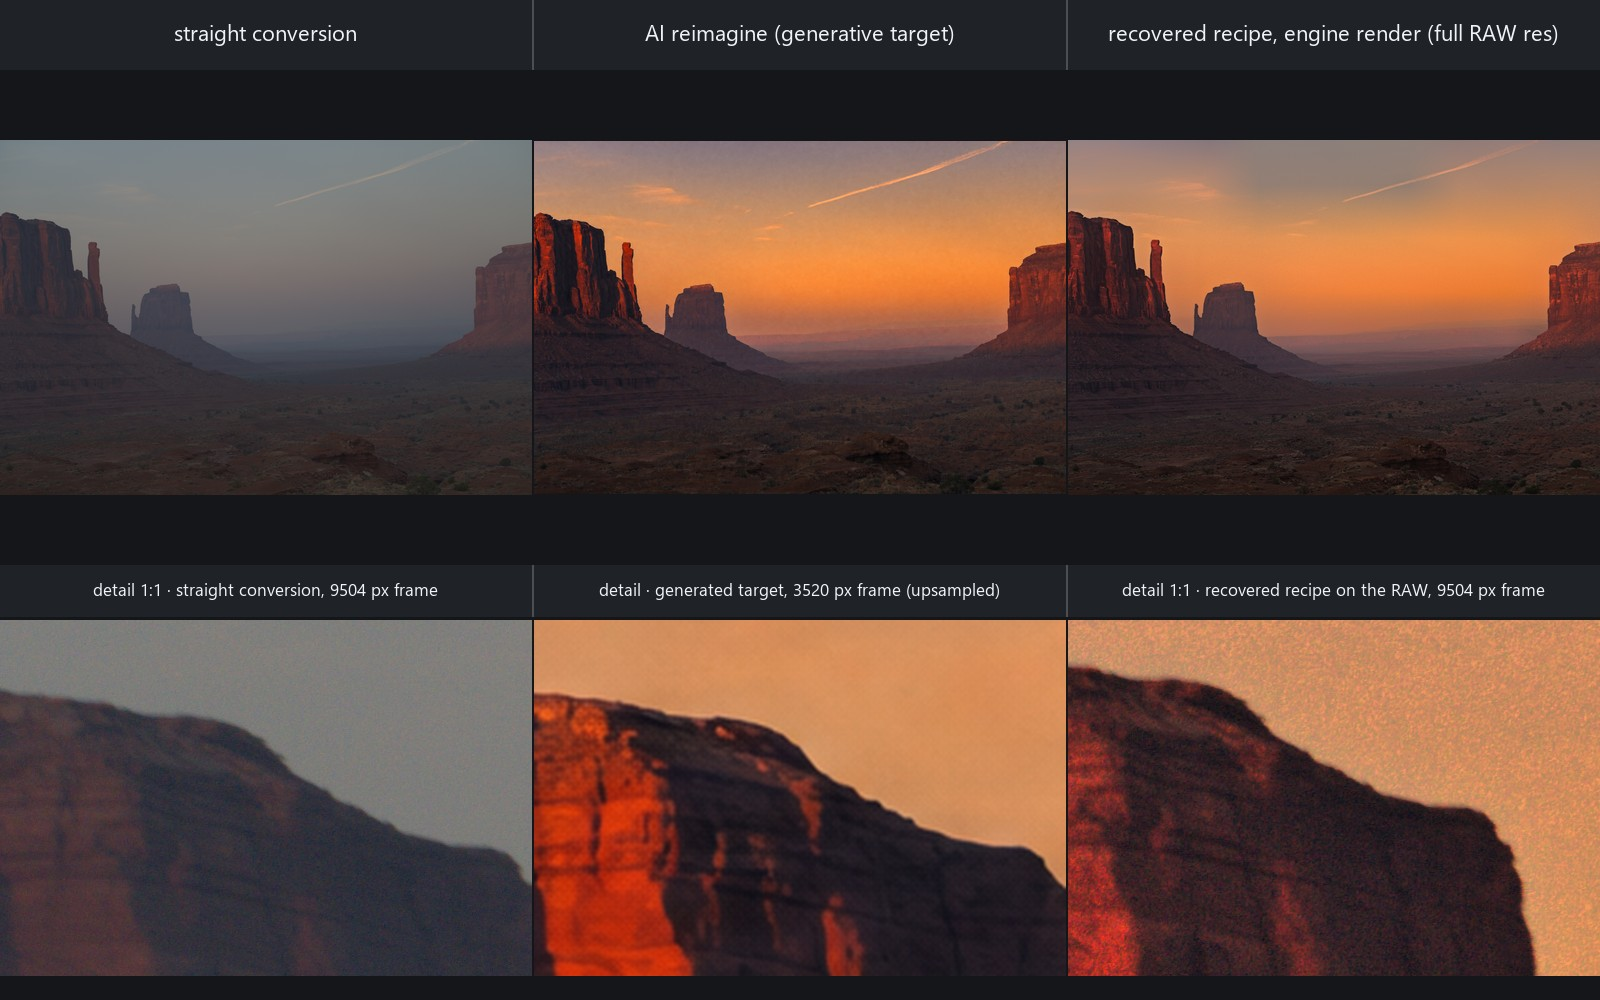
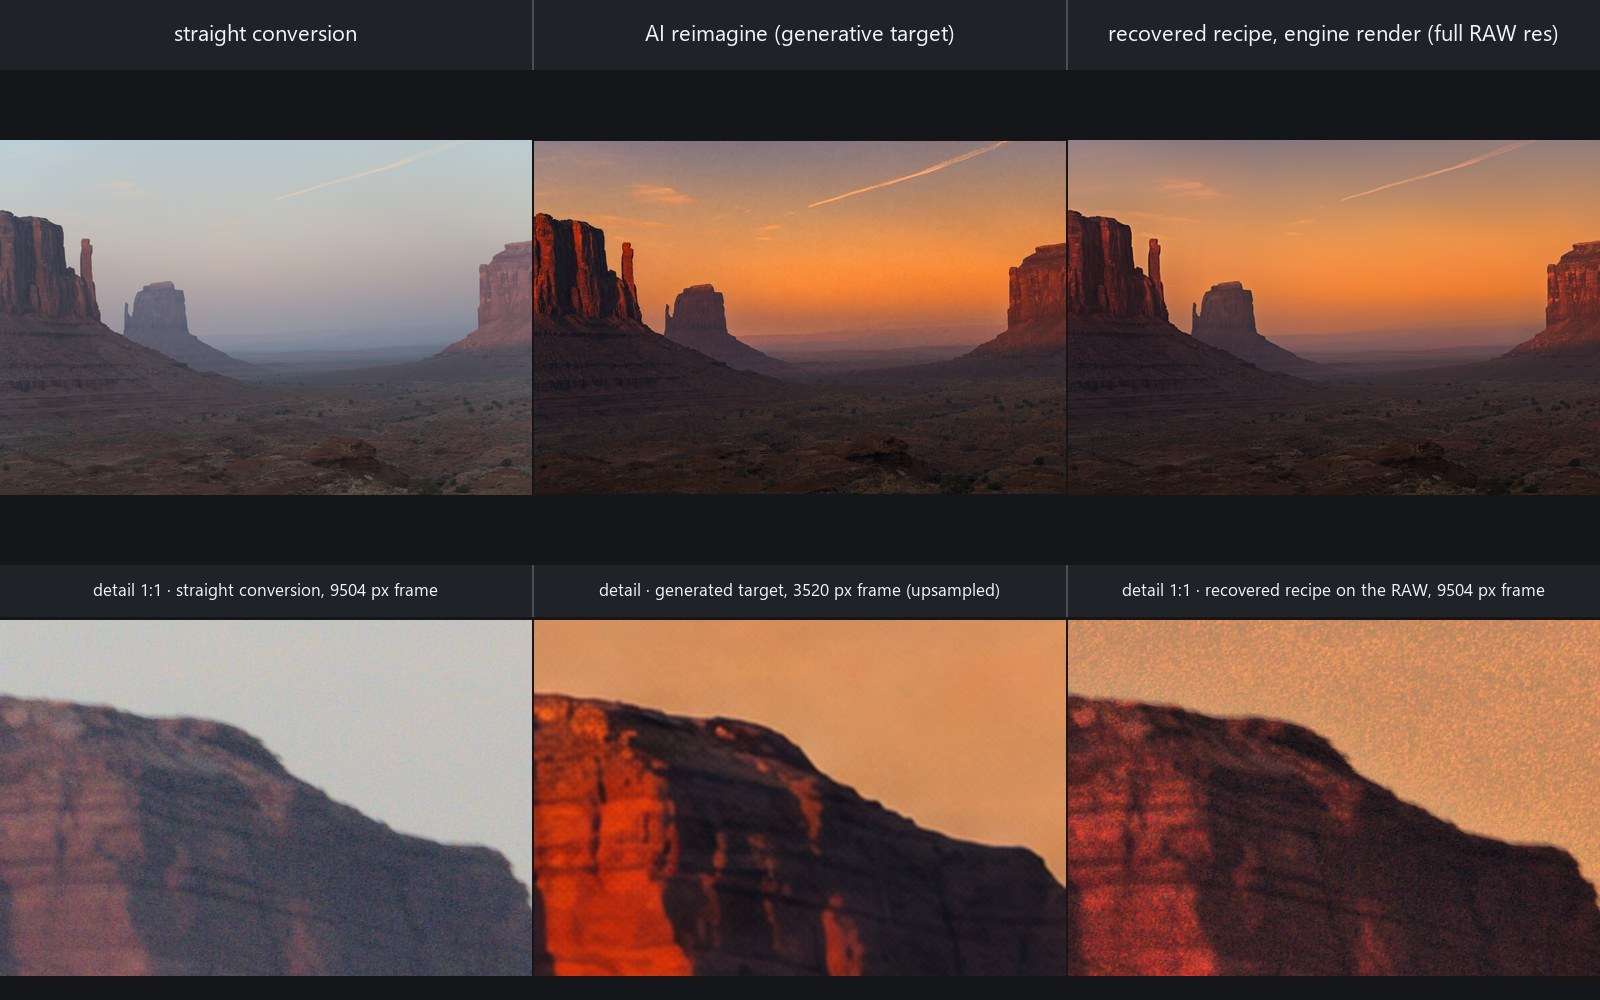
docs+site: the desert-canyon pair re-rendered on v1.6.1 and made the hero — the panel's left and right columns are the installed 1.6.1 CLI's full-resolution renders of the release gate's own 0.85 fit, the target column kept, the three 1:1 crops on one window; captions and the table row carry the v1.
The 2026-09-12 panel showed the v1.3.1 render of the reference pair, with
the grey-blue block at the top of the sky that v1.6.1 removed. The
re-render reuses the v1.6.1 release gate's fit at Reverse-fit strength 85 %
(the recipe and masks in the release lane's isolated store), rendered at
full resolution with the installed 1.6.1 command line on the gate's RAW
copy; the straight conversion is the default recipe plus this frame's own
base curve from that fit, so the two columns differ only by the fitted look.
The target column is the 2026-09-12 panel's: the 3520 × 2336 reimagine
purchase has since left the machine (the gate's fit reads a 1000 × 663 copy),
and the captions say so. The old panel's right-hand 1:1 crop sat 60 × 27 px
off the other two (found by matching each old crop against the new renders:
left and middle agree at (583–586, 1292–1293), right at (669, 1330)); the new
panel uses the middle crop's window for all three. The compose script and
the renders stay in the release lane (fig-canyon-161).

README: the §1 caption and the canyon table row carry the v1.6.1 fit
(D 0.278 / 0.658, sky zone 0.649; look error 0.129 → 0.048 at confidence
0.25 from the rationale, the same source the 2026-09-12 caption used; sky
ΔE 3.8 and whole-frame mean |diff| 0.0248 measured at 1000 px, the gate's
convention, with v1.6.0's 4.6 / 0.0260 beside them; WB 5653 → 8700 K,
−1.35 EV, saturation +36, two Select Sky bands, two land bands, two tiles,
[…]

diff --git a/site/index.html b/site/index.html
@@ -11,8 +11,8 @@
   <meta property="og:title" content="AutoShade · AI-assisted RAW development">
   <meta property="og:description" content="Describe the picture you want; get it back as an editable develop of your own RAW.">
   <meta property="og:url" content="https://autoshade.dev/">
-  <meta property="og:image" content="https://autoshade.dev/images/showcase-viaduct-reverse-fit.jpg">
-  <meta property="og:image:alt" content="Stone viaduct: the straight conversion, the picture an image model generated from it, and the recipe AutoShade recovered from that picture rendered on the RAW">
+  <meta property="og:image" content="https://autoshade.dev/images/showcase-canyon-reverse-fit.jpg">
+  <meta property="og:image:alt" content="Desert canyon at dusk: the straight conversion, the picture an image model generated from it, and the recipe AutoShade recovered from that picture rendered on the RAW">
   <meta name="theme-color" content="#f5f1e9" media="(prefers-color-scheme: light)">
   <meta name="theme-color" content="#101817" media="(prefers-color-scheme: dark)">
   <link rel="icon" type="image/png" href="favicon.png">
@@ -55,8 +55,8 @@
         <p class="hero-meta">Windows · macOS · Linux (CLI) · Open source under MIT</p>
       </div>
       <figure class="hero-figure">
-        <img src="images/showcase-viaduct-reverse-fit.jpg?v=1.6.1" width="1600" height="1000" alt="Stone viaduct: straight conversion, generated target, and the recovered recipe rendered on the RAW, with a 1:1 detail row">
-        <figcaption><strong>Ask for the picture, keep the RAW.</strong> One Sony α7R IVA 61 MP <code>.ARW</code>: the straight conversion, the picture <code>gpt-image-2</code> generated from it for <em>a clearer afternoon, a little more contrast, a slightly deeper blue sky, everything else unchanged</em>, and the recipe AutoShade recovered from that picture, rendered on the full RAW &mdash; look error <strong>0.161 → 0.023</strong>. The bottom row is one window at 1:1: the recipe carries the look, the sensor carries the detail, and the generated picture is a target, never the delivery. <a href="https://github.com/skymanbp/autoshade/blob/main/docs/SHOWCASE.md">Every number and prompt</a>.</figcaption>
+        <img src="images/showcase-canyon-reverse-fit.jpg?v=1.6.1-r2" width="1600" height="1000" alt="Desert canyon at dusk: straight conversion, generated target, and the recovered recipe rendered on the RAW, with a 1:1 detail row">
+        <figcaption><strong>Ask for the picture, keep the RAW.</strong> One Sony α7R IVA 61 MP <code>.ARW</code> at dusk: the straight conversion, the picture an image model generated from it &mdash; a full regeneration, the sky's texture re-synthesised and only its layout kept &mdash; and the recipe AutoShade recovered from that picture, rendered on the full RAW: sky ΔE <strong>3.8</strong> against the target, whole-frame mean |diff| <strong>0.0248</strong>, the recipe editable and exportable to Lightroom. The bottom row is one window at 1:1: the recipe carries the look, the sensor carries the detail, and the generated picture is a target, never the delivery. <a href="https://github.com/skymanbp/autoshade/blob/main/docs/SHOWCASE.md">Every number</a>.</figcaption>
       </figure>
     </section>
 
@@ -165,16 +165,16 @@ autoshade apply "photo.ARW" "recipe.json" -o "developed.tif"</code></pre>
     <section class="section showcase" id="showcase-a" aria-labelledby="showcase-a-title">
       <p class="section-kicker">Showcase · Part A</p>
       <h2 id="showcase-a-title">Reimagine → reverse-fit</h2>
-      <p class="section-lede">Targets can invent content; fitted renders cannot. Fit an editable recipe to the target's look, then apply it to the full RAW. The stone viaduct at the top of the page is the third pair.</p>
+      <p class="section-lede">Targets can invent content; fitted renders cannot. Fit an editable recipe to the target's look, then apply it to the full RAW. The desert canyon at the top of the page is the third pair.</p>
+
+      <figure class="wide-figure">
+        <img src="images/showcase-viaduct-reverse-fit.jpg?v=1.6.1" width="1600" height="1000" alt="Stone viaduct: straight conversion, generated target, and the recovered recipe rendered on the RAW, with a 1:1 detail row" loading="lazy">
+        <figcaption><strong><a href="https://github.com/skymanbp/autoshade/blob/main/docs/SHOWCASE.md">Stone viaduct.</a></strong> Top row: straight conversion, <code>gpt-image-2</code> target (<strong>D = 0.180</strong>, under the 0.35 threshold: full solve), recovered recipe on the RAW. Look error <strong>0.161 → 0.023</strong> at confidence 0.63, at Reverse-fit strength 100 %, not the 65 % default.</figcaption>
+      </figure>
 
       <figure class="wide-figure">
         <img src="images/showcase-cornwall-reverse-fit.jpg?v=1.6.1" width="1600" height="1000" alt="Cornwall lighthouse islet: straight conversion, generated target, and the recovered recipe rendered on the RAW, with a 1:1 detail row" loading="lazy">
         <figcaption><strong><a href="https://github.com/skymanbp/autoshade/blob/main/docs/SHOWCASE.md">Cornwall lighthouse islet: the same three stages.</a></strong> The body's 4:3 aspect makes its embedded preview a centred crop of the 3:2 sensor. Sized from the sensor frame the prompt bought a target at <strong>D = 0.136</strong>, against 0.304 from the preview. Look error <strong>0.137 → 0.027</strong> at confidence 0.66.</figcaption>
-      </figure>
-
-      <figure class="wide-figure">
-        <img src="images/showcase-canyon-reverse-fit.jpg?v=1.6.1" width="1600" height="1000" alt="Desert canyon at dusk: straight conversion, generated target, and the recovered recipe rendered on the RAW, with a 1:1 detail row" loading="lazy">
-        <figcaption><strong><a href="https://github.com/skymanbp/autoshade/blob/main/docs/SHOWCASE.md">Desert canyon at dusk: the reference pair v1.3.0 and v1.3.1 were measured on.</a></strong> A full regeneration, not a grade: the sky's texture is re-synthesised and only its layout survives, <strong>D = 0.275</strong> at pixel scale and 0.609 at layout scale. Fitted at Reverse-fit strength 85 %: look error <strong>0.110 → 0.048</strong>, sky ΔE <strong>18.2 → 4.9</strong>, whole-frame mean |diff| 0.0276 against the target, through a solved white balance, two Select Sky bands, four boundary-gated tiles and the colour field.</figcaption>
       </figure>
 
       <aside class="honesty" aria-label="Reverse-fit limitation">

diff --git a/README.md b/README.md
@@ -164,10 +164,10 @@ below are the whole path, and every number in their captions is measured.
 The source frame is one function for both entry points: a neutral develop of
 the RAW at a 2048 px working edge, never the camera's embedded JPEG preview.
 That matters because the two read differently — on the desert pair below, the
-embedded rendition measures D = 0.361 and buys the bounded atmosphere path,
-while the neutral develop of the same sensor frame measures D = 0.275 and
+embedded rendition measured D = 0.361 and bought the bounded atmosphere path,
+while the neutral develop of the same sensor frame reads D = 0.278 and
 earns the full solve. The pair is read at TWO scales and both are printed:
-D = 0.275 per pixel and 0.609 per layout on that frame, so a report says
+D = 0.278 per pixel and 0.658 per layout on that frame, so a report says
 whether the solve paired source pixel with target pixel or only their
 statistics. The coarse reading is a second scale, not a more forgiving one —
 measured, it reads HIGHER at frame, zone and cell scope, because the luma is
@@ -212,25 +212,27 @@ and prompts in [docs/SHOWCASE.md](docs/SHOWCASE.md).</sub>
 <img src="docs/images/showcase-canyon-reverse-fit.jpg" alt="Desert canyon at dusk: straight conversion, generated target, and the recovered recipe rendered on the RAW, with a 1:1 detail row" />
 
 <sub><b>Desert canyon at dusk.</b> The desert pair from the paragraph
-above — the reference pair v1.3.0 and v1.3.1 were measured on — and the
-hardest of the three: the target is a full regeneration, not a grade, so
-the sky's texture is re-synthesised and only its layout survives
-(<b>D = 0.275</b> at pixel scale, 0.609 at layout scale; the sky zone alone
-reads 0.617, past the 0.35 pairing line). Top row: the straight
-conversion, the 3520×2336 <code>reimagine</code> target, and the recovered
-recipe rendered on the 9504×6336 RAW, fitted at Reverse-fit strength 85 %: look
-error <b>0.110 → 0.048</b>, whole-frame mean |diff| against the target
-<b>0.0276</b> (v1.2.6 shipped 0.0571), sky ΔE <b>18.2 → 4.9</b> — a solved
-white balance (5653 K as shot → 8400 K), −1.3 EV under a six-knot residual
-curve, global saturation +35 with clarity and texture +20, the mixer on Red
-and Orange (+33/+33), two Select Sky bands vouched by the region's own
-cells where its re-synthesised pixels have no partner, four boundary-gated
-bitmap tiles, and the 12×8×8 colour field that renders in-app and rides in
-the sidecar's payload. Confidence 0.25, read from the accepted zone's
-residual, not from the frame. Bottom row: the same window at each source's
-native resolution. What the fit does not reach is disclosed rather than
-measured away: the land stays at ΔE 6.9, and the warm haze on the far mesas
-is the known gap. Full numbers in [docs/SHOWCASE.md](docs/SHOWCASE.md).</sub>
+above — the reference pair every release is gated on — and the hardest of
+the three: the target is a full regeneration, not a grade, so the sky's
+texture is re-synthesised and only its layout survives (<b>D = 0.278</b>
+at pixel scale, 0.658 at layout scale; the sky zone alone reads 0.649,
+past the 0.35 pairing line). Top row: the straight conversion, the
+3520×2336 <code>reimagine</code> target, and the recipe the v1.6.1 release
+gate itself recovered at Reverse-fit strength 85 %, rendered on the
+9504×6336 RAW: look error <b>0.129 → 0.048</b>, and against the target,
+measured at 1000 px, sky ΔE <b>3.8</b> (v1.6.0: 4.6) and whole-frame mean
+|diff| <b>0.0248</b> (v1.6.0: 0.0260) — a solved white balance (5653 K as
+shot → 8700 K), −1.35 EV under a six-knot residual curve, saturation +36
+with clarity and texture +20, the mixer on Red and Orange (+33/+33), two
+Select Sky bands vouched by the region's own cells where its re-synthesised
+pixels have no partner, two land bands, two boundary-gated bitmap tiles,
+one field mask, and the 12×8×8 colour field whose eight unreadable
+cells at the top of the sky are now read on the region pairing. Confidence
+0.25, read from the accepted zone's residual, not from the frame. Bottom
+row: the same window at each source's native resolution. What the fit does
+not reach is disclosed rather than measured away: the land stays at ΔE 6.0,
+and the warm haze on the far mesas is the known gap. Full numbers in
+[docs/SHOWCASE.md](docs/SHOWCASE.md).</sub>
 
 `match` recovers an editable recipe from any finished rendition of the same
 frame ([`src/fit.rs`](src/fit.rs)). A generated target is not pixel-aligned
@@ -670,7 +672,7 @@ the tests [`scripts/check_docs.py`](scripts/check_docs.py) re-derives.
 | Camera base look, v1.6.0 estimator (star frame, 8-bit levels) | develop against the camera's rendition 0.75 rms (median +0.19), 4.24 (+2.56) before; 4 knots instead of 13; finished-develop readings 0.3075 → 0.2922 and 0.0387 → 0.0139 | [What is new §12](#12-the-cameras-own-look-is-read-from-the-picture-like-with-like) |
 | Reverse-fit, stone viaduct (full solve, Reverse-fit strength 100 %) | look error 0.161 → 0.023 at confidence 0.63 (a global solve with the cast curves projected to t = 0.485, the per-band mixer on Orange/Yellow/Aqua/Blue at the 45 ceiling, two semantic zones, two boundary-gated tiles and one field mask), D = 0.180; at the default 65 % the pair fits to 0.047 at confidence 0.25 with the mixer capped at 18, four tiles and two field masks, and v1.2.2's fit of it is where the seam fix was measured: sky tile 0.0278 → 0.0042 (k 0.121), delivered +3.15 → +0.92 codes | [What is new §1](#1-whole-image-ai-generation-then-reverse-fit-an-editable-recipe-from-any-finished-look) |
 | Reverse-fit, Cornwall islet (full solve, composed calibration) | look error 0.137 → 0.027 at confidence 0.66, D = 0.136 sized from the sensor frame (0.304 from the cropped preview); the global cast projected to t = 0.363, delivered sky hue spread 9.6° (v1.2.2 shipped 33.1°) | [docs/SHOWCASE.md](docs/SHOWCASE.md) |
-| Reverse-fit, desert canyon at dusk (full solve, Reverse-fit strength 85 %; the v1.3.0/v1.3.1 reference pair) | look error 0.110 → 0.048 at confidence 0.25, D = 0.275 at pixel scale and 0.609 at layout scale (sky zone 0.617); on the 2048 px acceptance render, whole-frame mean \|diff\| against the target 0.0276 (v1.2.6: 0.0571), sky ΔE 18.2 → 4.9, land 7.0 → 6.9; a solved white balance, two Select Sky bands, four boundary-gated tiles and the 12×8×8 colour field; `match --zoned` 5 min 29 s | [docs/SHOWCASE.md](docs/SHOWCASE.md) |
+| Reverse-fit, desert canyon at dusk (full solve, Reverse-fit strength 85 %; the reference pair every release is gated on, the v1.6.1 gate's own fit) | look error 0.129 → 0.048 at confidence 0.25, D = 0.278 at pixel scale and 0.658 at layout scale (sky zone 0.649); against the target, measured at 1000 px: sky ΔE 3.8 (v1.6.0: 4.6), whole-frame mean \|diff\| 0.0248 (v1.6.0: 0.0260), land ΔE 6.0; a solved white balance, two Select Sky bands, two land bands, two boundary-gated tiles, one field mask and the 12×8×8 colour field (8 of its cells read on the region pairing) | [docs/SHOWCASE.md](docs/SHOWCASE.md) |
 | Local-field ceiling, calibration pair | global fit 0.0961 against a ceiling of 0.0700; the accepted sky zone realizes 0.134 of the distance | [What is new §6](#6-a-bilateral-grid-local-field-prices-every-local-producer-first) |
 | AI develop, model judge | 2026-09-02 four-looks batch on the full 169 + 94 index at `--style 1.0 --strength 0.9`, the direction leading: moody 68 → 70 → 78 (both adopted) → 69 (discarded), verdict Accept; golden 87 → 84 (discarded) after the verifier twice sent the proposal back for the grain it never set, verdict Revise — unsaved, the figure renders the proposal; vivid 70 → 84 (adopted) → 82 (discarded), verdict Accept. The finished-look-only run (2026-09-01) and v1.2.2's full-index run are on the showcase page | [AI advisor](#ai-advisor-and-reverse-fit) |
 | Style retrieval weights | corpus harness (169 described exemplars, 156 queries): `W_EMB=4`, `W_TXT=0.5`, `W_DESC=0.5`, standardised variant with the text-hubness correction — MAE 0.688864 vs baseline 0.713143, +0.024280, CI [+0.005837, +0.041111] under the prose proxy; the corrected point at the old `W_TXT=4` regresses with CI [−0.069654, −0.005140], which is why the weight moved; under the tag-string proxy nothing beats the text-free row; `W_LOOK=1.0` is unmeasured (the harness cannot see the look library) and its scale is a real ratio against the direction terms — it ships inside a stable band, order unchanged to 2x and first moving at 4x | [AI advisor](#ai-advisor-and-reverse-fit) |

diff --git a/docs/SHOWCASE.md b/docs/SHOWCASE.md
@@ -7,8 +7,10 @@ four-looks panel and the Cornwall panel were rendered on 2026-09-02 on the
 v1.2.3 build; the
 stone-viaduct panel's right column was re-rendered on 2026-09-03 on the v1.2.4
 build at Reverse-fit strength 100 %, its other two columns being the v1.2.2
-composition's frames re-encoded once; the desert-canyon panel was rendered
-on 2026-09-12 on the v1.3.1 build; every frame not marked
+composition's frames re-encoded once; the desert-canyon panel was
+re-rendered on 2026-09-25 on the v1.6.1 build from the release gate's own
+fit, keeping the 2026-09-12 panel's middle column (the target, unchanged);
+every frame not marked
 *generated* is rendered by AutoShade's engine from a recipe, and every
 "straight conversion" is AutoShade's own neutral develop of the RAW, not the
 camera JPEG. Model-judge scores are automated review, not human aesthetic
@@ -99,41 +101,55 @@ delivered sky spread of 9.6° against the target's 1.6° and v1.2.2's
 
 <img src="images/showcase-canyon-reverse-fit.jpg" alt="Desert canyon at dusk: straight conversion, generated target, and the recovered recipe rendered on the RAW, with a 1:1 detail row" />
 
-<sub><b>Desert canyon at dusk.</b> The reference pair v1.3.0 and v1.3.1
-were measured on, rendered on 2026-09-12 on the v1.3.1 build. The target
-is a 3520 × 2336 <code>reimagine</code> purchase made from the desktop app
-on 2026-09-10; the app records such a purchase as its origin file only,
-not the Direction text or the model, so unlike the two panels above this
-caption cannot quote the prompt. It is a full regeneration rather than a
-grade: the sky's texture is re-synthesised and only its layout survives,
-which is why this pair reads <b>D = 0.275</b> at pixel scale and 0.609 at
-layout scale (the sky zone 0.617, the land 0.273) — under the 0.35 line at
-frame scope, so the full solve ran, with the sky's pixels admitted on the
-region's own 12 × 8 cell means where no pixel has a partner. The right
-column is the v1.3.1 fit at Reverse-fit strength 85 % (`match --zoned`,
-5 min 29 s; the product default is 65 %, where the colour field is inert by
-design and the sky stays 27 ΔE from the target). Look error <b>0.110 →
-0.048</b>: a solved white balance (5653 K as shot → 8400 K, tint +33),
-exposure −1.3 EV with contrast +3.1 and blacks −3.4 under a six-knot
-residual tone curve, global saturation +35, clarity and texture +20 within
-the ±20 budget, the per-band mixer on Red and Orange (saturation +33,
-luminance +33; Aqua and Blue one-sided, left neutral), no cast curves (they
-would have re-hued a region), two Select Sky bands (band 1/2 at +0.14 EV,
-saturation +6; band 2/2 at +0.19 EV, contrast +0.5, shadows −0.9,
-saturation +3; accepted after 15 trials, analysis-scale ΔE 30.1 → 27.1),
-four boundary-gated bitmap tiles (r2c2, r2c0, r1c0, r3c3; cross-boundary
-steps 0.0023–0.0074 after shrink, each context-charged within the 0.012
-ceiling), no field mask (both candidates refused by the zone gate), and the
-12 × 8 × 8 colour field (frame residual 0.0439 → 0.0171, 85 of 88 measured
-cells on the support-free solve). Confidence 0.25, read from the accepted
-zone's residual (0.436), not the frame's 0.047. On the 2048 px acceptance
-render: whole-frame mean |diff| against the target <b>0.0276</b> (v1.2.6
-shipped 0.0571 from the command line and 0.0949 from the saved desktop
-fit), sky ΔE <b>18.2 → 4.9</b> with |dL| 0.6 and L\*std 1.03 of the
-target's, land ΔE 7.0 → 6.9. The far mesas keep a warm haze on the land
-side that the render reads cooler (a\* 24.5 against 18): a haze-colour gap
-along a real edge, inside the land's ΔE, disclosed as the known gap rather
-than measured away. The full three-strength table is in
+<sub><b>Desert canyon at dusk.</b> The reference pair every release has
+been gated on since v1.3.0, re-rendered on 2026-09-25 on the v1.6.1 build:
+the left and right columns are the installed 1.6.1 command line's own
+renders, the recipe being the one the v1.6.1 release gate fitted at
+Reverse-fit strength 85 % (the product default is 65 %). The target is a
+3520 × 2336 <code>reimagine</code> purchase made from the desktop app on
+2026-09-10; the app records such a purchase as its origin file only, not
+the Direction text or the model, so unlike the two panels above this
+caption cannot quote the prompt. The full-size file has since left the
+machine, so the gate's fit reads a 1000 × 663 copy of it, and the panel's
+middle column is the 2026-09-12 panel's, made from the full file; the
+2026-09-12 panel's right-hand detail crop sat 60 × 27 px off the other two,
+which this panel corrects. It is a full regeneration rather than a grade:
+the sky's texture is re-synthesised and only its layout survives, which is
+why this pair reads <b>D = 0.278</b> at pixel scale and 0.658 at layout
+scale (the sky zone 0.649, the land 0.273) — under the 0.35 line at frame
+scope, so the full solve ran, with the sky's pixels admitted on the
+region's own 12 × 8 cell means where no pixel has a partner. Look error
+<b>0.129 → 0.048</b>: a solved white balance (5653 K as shot → 8700 K,
+tint +39), exposure −1.35 EV with contrast +3.1, highlights −0.9 and
+shadows −1.9 under a six-knot residual tone curve, global saturation +36,
+clarity and texture +20 within the ±20 budget, the per-band mixer on Red
+and Orange (saturation +33, luminance +33; Aqua and Blue one-sided, left
+neutral), no cast curves (they would have re-hued a region), two Select
+Sky bands (band 1/2 at +0.15 EV, saturation +0.8; band 2/2 at +0.19 EV,
+contrast +0.4, shadows −0.7, saturation +3.2; their colour controls
+shipped at 0.797 and 0.875 of the solved move on the target's own cell
+means; accepted after 15 trials, analysis-scale ΔE 29.4 → 26.9), two land
+bands (band 1/2 at +0.12 EV, contrast +1.7, shadows −2.9, blacks −1.0;
+band 2/2 saturation −0.2; ΔE 6.44 → 6.39), two boundary-gated bitmap
+tiles (r1c3 and r1c0; cross-boundary steps 0.0631 → 0.0020 and
+0.0987 → 0.0062 luma after shrink, each context-charged within the 0.012
+ceiling), one field mask (frame residual 0.0434 → 0.0399), and the
+12 × 8 × 8 colour field (frame residual 0.0399 → 0.0216; 88 of 88 measured
+cells on the support-free solve, and the 8 cells at the top of the sky
+that pixel evidence could not read at all — the grey-blue block of every
+earlier build — read on the region the segmenter found in both frames).
+Confidence 0.25, read from the accepted sky zone's residual (0.424), not
+the frame's 0.046. Measured against the target at 1000 × 663, the gate's
+own convention: sky ΔE <b>3.8</b> with dL −0.1 and L\*std 1.10 of the
+target's, land ΔE <b>6.0</b> with dL +0.7, whole-frame mean |diff|
+<b>0.0248</b> (6.3 of 255 codes); the v1.6.0 build read 4.6 / 0.0260 on
+the same fit settings, and the 2026-09-12 render of this pair, measured on
+a 2048 px acceptance render, read sky ΔE 18.2 → 4.9 and 0.0276. The far
+mesas keep a warm haze on the land side that the render reads cooler, a
+haze-colour gap along a real edge, inside the land's ΔE, disclosed as the
+known gap rather than measured away. The v1.6.1 gate's three-strength
+numbers are in the release ledger, [ROADMAP.md](ROADMAP.md); the first
+three-strength table is in
 [RELEASE_NOTES_v1.3.0.md](RELEASE_NOTES_v1.3.0.md).</sub>
 
 ## Part B — AI analysis with a style reference: one photograph, four looks
